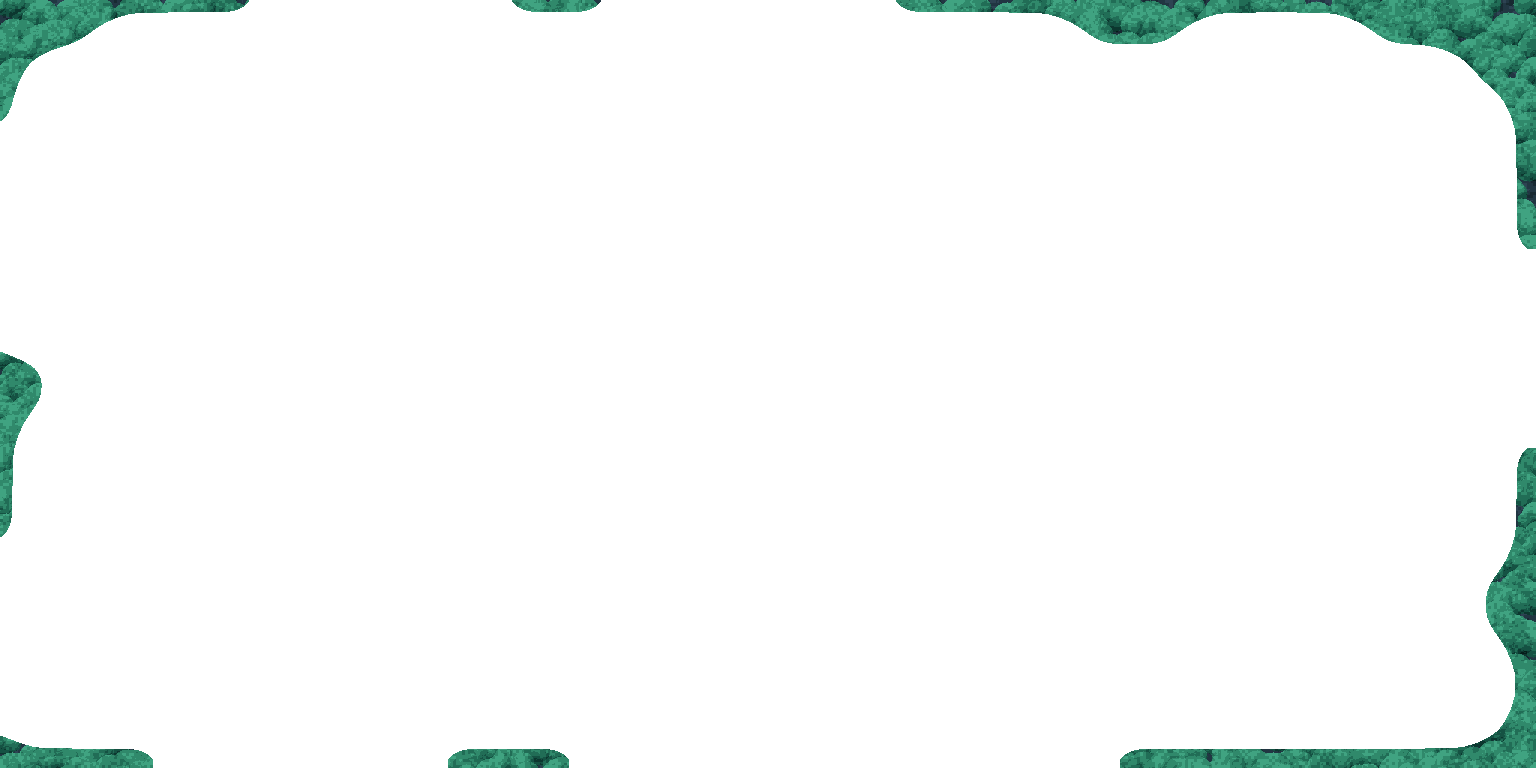
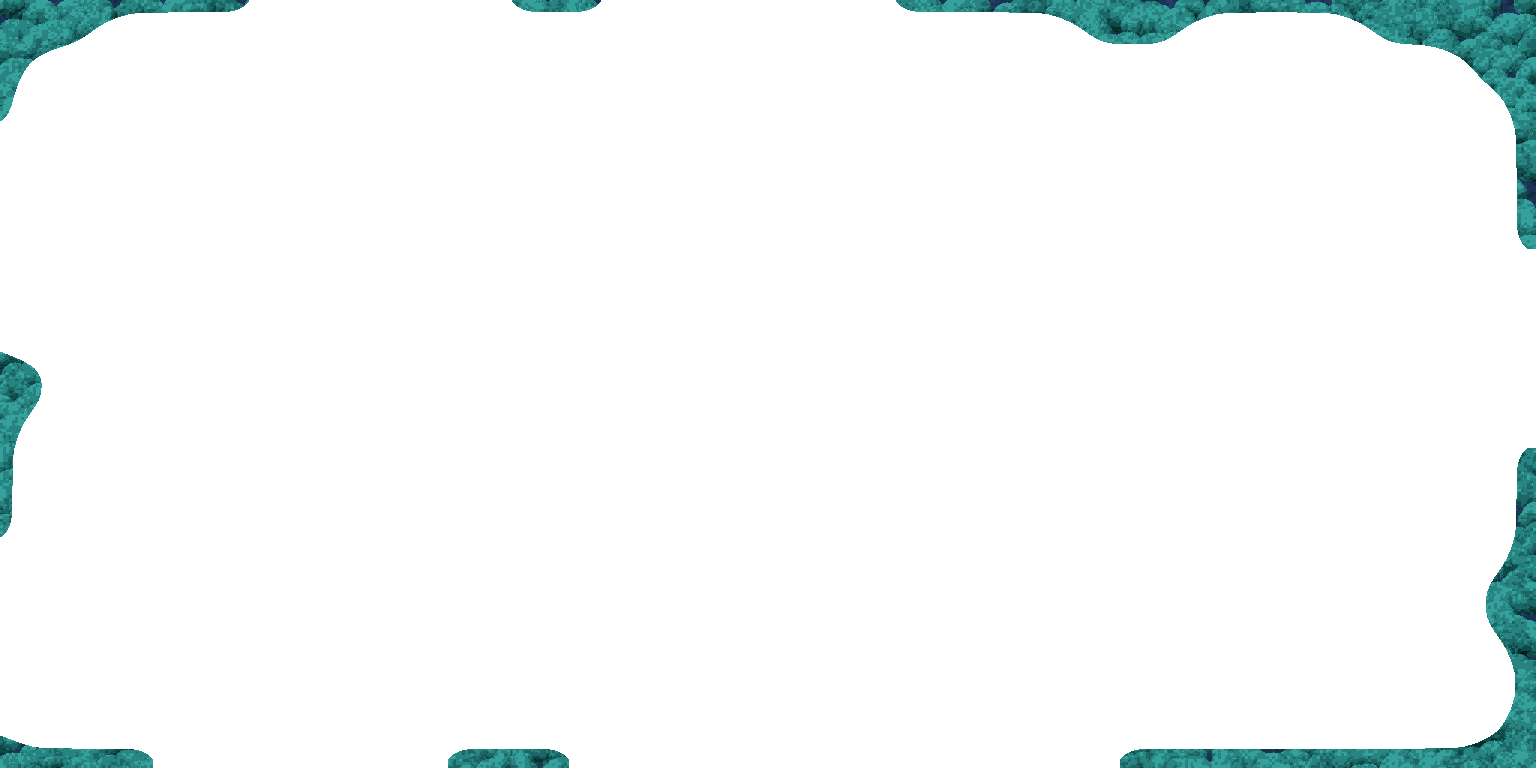
Meadow surreal color pass: emerald field, indigo canopy, cyan pond, violet cloud washes

diff --git a/assets/_gen_scene_meadow.py b/assets/_gen_scene_meadow.py
@@ -30,6 +30,8 @@ W, H = p.W, p.H
 
 GRASS = p.mat("grass")
 GRASS2 = p.mat("grass2")                       # warmer drift patches
+GRASS_V = p.mat("grass", shadow="violet")      # violet wash under cloud shade
+GRASS2_V = p.mat("grass2", shadow="violet")
 PATH = p.mat("path")                           # hand-tuned identity ramp
 WATER = p.mat("water")
 CANOPY = p.mat("treeline")
@@ -74,6 +76,8 @@ def s_path_at(x, y):
 # layered noise + upper-left light + edge vignettes. Bytes are written directly.
 gb = [bytes(c) for c in GRASS]
 g2 = [bytes(c) for c in GRASS2]
+gbv = [bytes(c) for c in GRASS_V]
+g2v = [bytes(c) for c in GRASS2_V]
 pb = [bytes(c) for c in PATH]
 wb = [bytes(c) for c in WATER]
 buf = p.ground.buf
@@ -140,11 +144,15 @@ for y in range(H):
                     t += (44.0 - s_tree) * 0.0045   # treeline ambient occlusion
                 if 0.0 < s_path <= 6.0:
                     t += 0.10                       # trodden fringe
-                cl = clo_(x, y)
-                if cl > 0.60:
-                    t += (cl - 0.60) * 0.9          # drifting cloud shade
                 # warm drift patches, noise-dithered edge, kept off the treeline AO
-                ramp_b = g2 if s_tree > 30.0 and hue_(x, y) + (f - 0.5) * 0.2 > 0.62 else gb
+                warm = s_tree > 30.0 and hue_(x, y) + (f - 0.5) * 0.2 > 0.62
+                cl = clo_(x, y)
+                if cl > 0.58:
+                    # drifting cloud shade as a VIOLET wash (the color-script move)
+                    t += (cl - 0.58) * 0.9
+                    ramp_b = g2v if warm else gbv
+                else:
+                    ramp_b = g2 if warm else gb
                 c = ramp_b[tone_i(5, t, x, y, 24)]
         buf[o:o + 4] = c
         o += 4

diff --git a/assets/_palette.py b/assets/_palette.py
@@ -143,14 +143,14 @@ SCENES = {
                      (198, 138, 108, 255), (156, 92, 96, 255), (110, 58, 78, 255)],
         },
         "mats": {
-            "grass": (94, 178, 118, 255),
-            "grass2": (108, 182, 108, 255),     # warmer drift patches
+            "grass": (62, 192, 142, 255),       # minty emerald, surreal-cool
+            "grass2": (96, 196, 116, 255),      # warmer drift patches
             "path": (230, 176, 130, 255),
             "hedge": (34, 106, 94, 255),
-            "rock": (144, 150, 172, 255),
-            "treeline": (38, 118, 92, 255),     # border canopy mass
-            "trunk": (66, 84, 104, 255),        # understory / bark
-            "water": (70, 152, 172, 255),       # pond
+            "rock": (154, 146, 190, 255),       # lavender outcrops
+            "treeline": (30, 112, 110, 255),    # teal-indigo canopy mass
+            "trunk": (54, 66, 126, 255),        # indigo understory
+            "water": (54, 170, 192, 255),       # hot cyan pond
             "shore": (222, 172, 134, 255),      # wet-sand ring
         },
     },